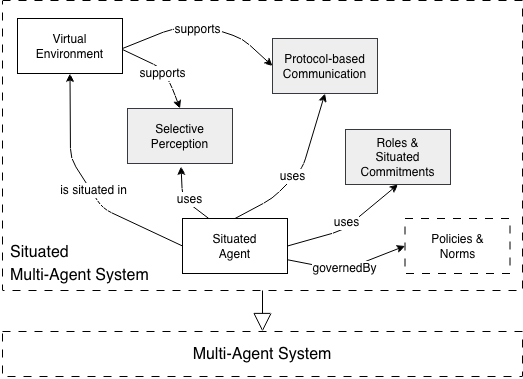
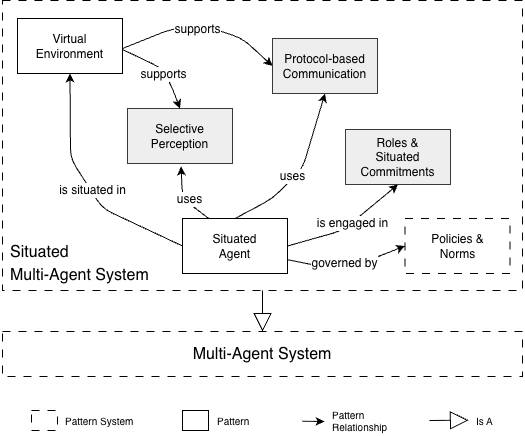
interop: Add legend to Figure 3; fix typo; update definition of value alignment

diff --git a/TaskForces/Interoperability/Reports/report-interoperability.html b/TaskForces/Interoperability/Reports/report-interoperability.html
@@ -432,12 +432,12 @@
               </tr>
               <tr>
                 <td>Value Alignment</td>
-                <td>The <a href="#dfn-agent">agent</a> acts in ways that are consistent with the goals, preferences, and interests of its end-user, and that respect human values, ethical principles, societal norms, and fundamental human rights.</td>
+                <td>The <a href="#dfn-agent">agent</a> acts in ways that are consistent with the goals, preferences, and interests of its end-user, and that respect human values and norms.</td>
               </tr>
             </tbody>
           </table>
 
-          <p>Situatedness is central to distinguishing agents from other types of programs [[FRANKLIN96]]. Embodiment enables agents to discover and interact with one another on the open Web. Value alignment is fundamental not only to intelligent agents [[RUSSELL19]] but also to Web <a href="https://www.w3.org/TR/webarch/#def-user-agent">user agents</a> in general (see the <a href="https://www.w3.org/groups/other/tag/">Technical Architecture Group</a>'s draft note on <a href="https://w3ctag.github.io/user-agents/">Web User Agents</a>).</p>
+          <p>Situatedness is central to distinguishing agents from other types of programs [[FRANKLIN96]]. Embodiment enables agents to discover and interact with one another on the open Web. Value alignment is fundamental not only to intelligent agents and AI systems in general [[RUSSELL19]], but also to Web <a href="https://www.w3.org/TR/webarch/#def-user-agent">user agents</a> in general (see the <a href="https://www.w3.org/groups/other/tag/">Technical Architecture Group</a>'s draft note on <a href="https://w3ctag.github.io/user-agents/">Web User Agents</a>).</p>
 
           <table class="def">
             <caption>System-level Design Goals</caption>
@@ -505,8 +505,8 @@
         <p>The original pattern language introduced by Weyns includes five patterns [[WEYNS10]]: <i>situated agent</i>, <i>virtual environment</i>, <i>selective perception</i>, <i>protocol-based communication</i>, and <i>roles &amp; situated commitments</i>. In this report, we focus on the first two — the basic patterns — and leave the others for future work within the <a href="https://www.w3.org/community/webagents/">Autonomous Agents on the Web (WebAgents) Community Group</a>. The language may also be extended with new architectural patterns, such as the <i>policies &amp; norms</i> pattern shown in [[[#pattern-language]]].</p>
 
         <figure id="pattern-language">
-          <img src="images/pattern-language.png" alt="A pattern languge for Web-based agents and MAS." width="500" />
-          <figcaption>A pattern languge for Web-based agents and MAS.</figcaption>
+          <img src="images/pattern-language.png" alt="A pattern language for Web-based agents and MAS." width="500" />
+          <figcaption>A pattern language for Web-based agents and MAS.</figcaption>
         </figure>
 
         <p>In the following, we present the two basic patterns using UML component diagrams. We give concise overviews of the each pattern and illustrate their application in both modern LLM-based MAS and classical MAS (for detailed descriptions, see [[WEYNS10]]). We then discuss network-based connectors, focusing on Web interactions.</p>
